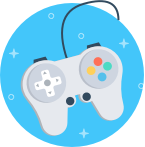
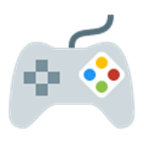
changed UI for trend AI contest

diff --git a/web/js/game/resource.js b/web/js/game/resource.js
@@ -14,7 +14,7 @@ var s_winner_bg = './res/images/game_board/winner_bg.png';
 var s_dec_bottom = './res/images/game_board/bg_chip.png';
 var s_bg_board = './res/images/game_board/bg_table.png';
 var s_bg_mm_2 = './res/images/game_board/img_beauty_3.png';
-var s_tm_logo = './res/images/game_board/brand_rev.png';
+var s_tm_logo = './res/images/game_board/tm_logo.png';
 var s_your_turn = './res/images/game_board/its_your_turn.png';
 
 // player images

diff --git a/web/style/index.css b/web/style/index.css
@@ -44,7 +44,6 @@ body {
 
 body {
     overflow-y: scroll;
-    background: url('../res/images/background.png') no-repeat center center fixed;
     -webkit-background-size: cover;
     -moz-background-size: cover;
     -o-background-size: cover;

diff --git a/web/style/document.css b/web/style/document.css
@@ -6,7 +6,6 @@ body {
 
 body {
     overflow-y: scroll;
-    background: url('../res/images/background.png') no-repeat center center fixed;
     -webkit-background-size: cover;
     -moz-background-size: cover;
     -o-background-size: cover;
